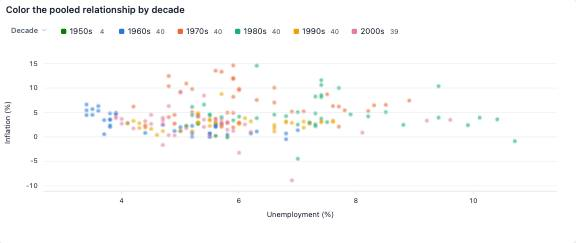
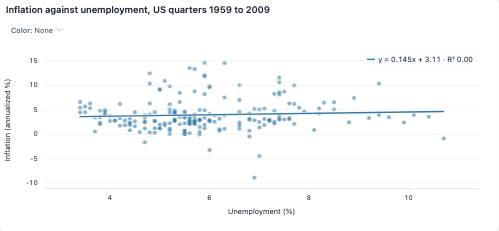
feat(daily): rewrite macro-inflation-unemployment around the decade fits

diff --git a/apps/demo/public/daily-viz/projects/macro/inflation-unemployment.eda.md b/apps/demo/public/daily-viz/projects/macro/inflation-unemployment.eda.md
@@ -1,63 +1,46 @@
-# Pooled, inflation and unemployment look unrelated; each decade tells its own story
+# The Phillips curve held in the 1960s, then broke
 
-**Does the pooled historical association resemble the association within the 1970s?** Each row is one US calendar quarter.
+**Does higher inflation come with lower unemployment?** Each row is one US quarter from 1959 to 2009, with the unemployment rate and annualized CPI inflation. Pooled over fifty years, the two are unrelated. Inside the 1960s they trace the textbook curve. The 1970s pushed both up at once, and the curve never came back.
 
 ```eda
 eda query=r
 unemp:num=r.unemp label="Unemployment (%)"
-infl:num=r.infl label="Inflation (%)"
-date:date=r.date label="Date"
+infl:num=r.infl label="Inflation (annualized %)"
+date:date=r.date label="Quarter"
 decade:cat=r.decade label="Decade"
 ```
 
-## 1. Color the pooled relationship by decade
+## Pooled, fifty years show no trade-off
 
-Color preserves the calendar grouping inside the pooled cloud. The first source inflation value is a placeholder, so do not give that point the status of a measured change.
+Every quarter from 1959 to 2009 is one point. The fitted line is almost flat: the pooled correlation between inflation and unemployment was 0.065. Unemployment anywhere from 4% to 10% came with inflation anywhere from 0% to 14%.
 
 ```eda
-scatter @nb-macro-inflation-unemployment-chart-1 x=unemp y=infl color=decade opacity=0.6 title="Color the pooled relationship by decade" x.title="Unemployment (%)" y.title="Inflation (%)"
+scatter @nb-macro-inflation-unemployment-chart-1 x=unemp y=infl opacity=0.6 regression=linear title="Inflation against unemployment, US quarters 1959 to 2009" x.title="Unemployment (%)" y.title="Inflation (annualized %)"
 ```
 
-## 2. Inflation retains its time order
+## Inside the 1960s the curve was steep
 
-A time series reveals sequences that disappear in the scatter. Avoid treating successive quarters as independent draws.
+The same points colored by decade, each with its own fit. In the 1960s the correlation was -0.744: low unemployment went with high inflation, as the curve says. In the 1970s the correlation was -0.183, and in the 1990s it was 0.152, the wrong sign. Each decade's cloud sits in its own corner, which is what flattens the pooled line.
 
 ```eda
-line @nb-macro-inflation-unemployment-chart-2 x=date y=infl title="Inflation retains its time order" x.title="Date" y.title="Inflation (%)"
+scatter @nb-macro-inflation-unemployment-chart-2 x=unemp y=infl color=decade opacity=0.7 regression=linear title="Inflation against unemployment, fitted by decade" x.title="Unemployment (%)" y.title="Inflation (annualized %)"
 ```
 
-**Finding.** The pooled inflation–unemployment correlation, excluding the initial placeholder quarter, was 0.065.
+## The 1970s raised both at once
 
-## 3. Unemployment distributions within each decade
-
-Changing group distributions can change a pooled relationship even when no single within-group slope is stable.
+Put the quarters back in order. Inflation peaked at 14.62% in the last quarter of 1979, after the 1973 and 1979 oil shocks. Unemployment peaked at 10.7% in the last quarter of 1982, at the bottom of the recession that broke the inflation. 18 quarters had inflation of 5% or more and unemployment of 7% or more, and all but two fell between 1975 and 1983.
 
 ```eda
-boxplot @nb-macro-inflation-unemployment-chart-3 unemp color=decade title="Unemployment distributions within each decade" y.title="Unemployment (%)"
-```
-
-## 4. Inflation thresholds by historical span
-
-The cumulative view compares the entire distribution. It does not correct the small and unequal number of quarters in the boundary decades.
-
-```eda
-ecdf @nb-macro-inflation-unemployment-chart-4 infl color=decade direction=below title="Inflation thresholds by historical span" x.title="Inflation (%)"
-```
-
-**Finding.** Within the 1970s quarters, the correlation was -0.183.
-
-## 5. The rows behind the charts
-
-Sort a column or select rows to check any value above. Selections in a notebook stay with their own chart.
-
-```eda
-table @nb-macro-inflation-unemployment-records date,infl,unemp,decade title="Records behind this comparison"
+line @nb-macro-inflation-unemployment-chart-3 x=date y=infl,unemp title="Inflation and unemployment by quarter, 1959 to 2009" x.title="Quarter" y.title="Percent" {
+  band x=1973-10-01..1982-12-31 "Oil shocks to Volcker disinflation"
+  rule y=0 "Zero"
+}
 ```
 
 ## Takeaway
 
-A colored cloud is a starting point for checking mixtures, not a stable structural curve. Examine the time series and the grouped distributions before naming an economic mechanism.
+The inflation-unemployment trade-off is real inside one decade and absent across five. A fitted line through fifty years of quarters answers no question anyone asks; the decade fits do.
 
 ## Limits
 
-Time ordering, policy regimes, revisions, and omitted factors limit a pooled scatter. The source’s initial inflation placeholder is excluded from the pooled calculation. Correlation is not a policy trade-off or causal estimate.
+Quarters are not independent draws, so a correlation inside a decade is a description, not a test. Inflation here is the annualized change in one quarter's CPI, which is noisier than a year-on-year rate. The first quarter's inflation is a placeholder zero and is left out.
